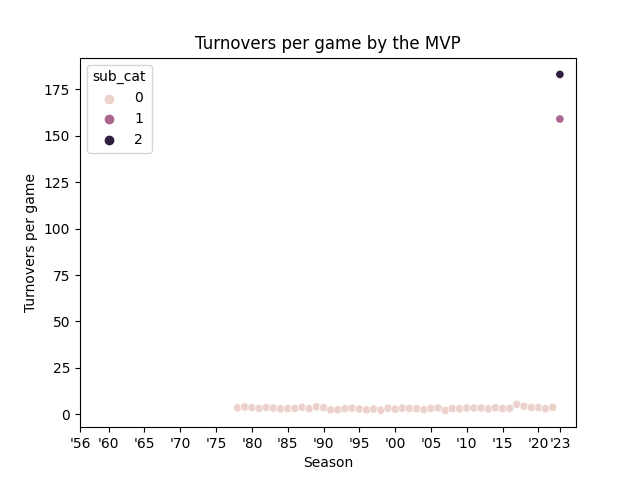
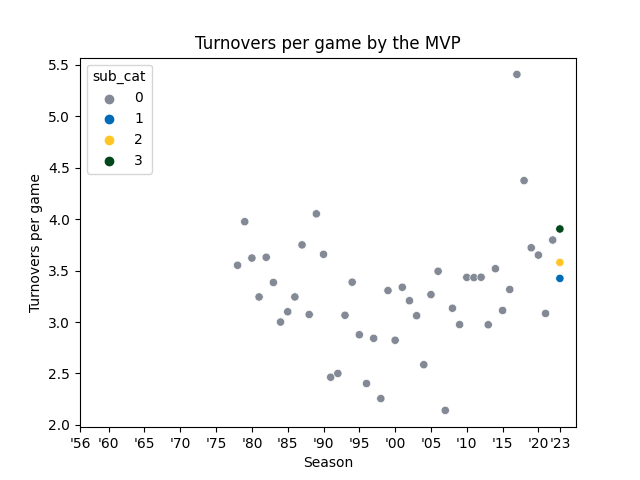
Final data version

diff --git a/graph.py b/graph.py
@@ -2,6 +2,15 @@ import pandas as pd
 import seaborn as sns
 import matplotlib.pyplot as plt
 
+palette=[
+    '#838a96',
+    #Embiid
+    '#006BB6',
+    #Joker
+    '#FEC524',
+    #Gianni
+    '#00471B',
+]
 
 def gen_labels(seasons):
     seasons = ["'"+x.split("-")[1] for x in seasons]
@@ -52,7 +61,7 @@ def gen_by_year_dataset(data, tag):
     r_df = pd.DataFrame(dtm, columns=['idx', 'season', tag])
     return r_df
 
-tag_to_label = {"PTS": "Points", "REB" : "Rebounds", "AST" : "Assits", "STL" : "Steals", "BLK" : "Blocks", "FG_PCT": "Field Goal Percentage", "FG3_PCT" : "3 Point Percentage", "TS%" : "True Shooting Percentage", 'OWS' : 'OWS', 'TOV' : 'Turnovers', 'PF':'Personal Fouls', 'PER':'PER','OWS':'OWS',
+tag_to_label = {"PTS": "Points", "REB" : "Rebounds", "AST" : "Assists", "STL" : "Steals", "BLK" : "Blocks", "FG_PCT": "Field Goal Percentage", "FG3_PCT" : "3 Point Percentage", "TS%" : "True Shooting Percentage", 'OWS' : 'OWS', 'TOV' : 'Turnovers', 'PF':'Personal Fouls', 'PER':'PER','OWS':'OWS',
                 'DWS':'DWS','WS':'WS','OBPM':'OBPM','DBPM':'DBPM','BPM':'BPM','VORP':'VORP'}
 
 def beep(tag):
@@ -61,10 +70,15 @@ def beep(tag):
         return ret_map[tag]
     return tag
 
-def add_player_to_scat(scat, name, tag, sub_cat):
+def add_player_to_scat(scat, name, tag, sub_cat, per_game):
     player = pd.read_csv('data/this_year/{}.csv'.format(name))
     player_tag = beep(tag)
-    new_row = {'idx':67, 'season':'2022-23', tag:float(player[player_tag]), 'sub_cat':sub_cat}
+
+    if(per_game):
+        new_row = {'idx':67, 'season':'2022-23', tag:float(player[player_tag]/player['G']), 'sub_cat':sub_cat}
+    else:
+        new_row = {'idx':67, 'season':'2022-23', tag:float(player[player_tag]), 'sub_cat':sub_cat}
+
     scat = scat.append(new_row, ignore_index=True)
     return scat
 
@@ -79,10 +93,11 @@ def gen_scatter_plot_by_year(tag, per_game):
 
 
     SCAT['sub_cat'] = 0
-    SCAT = add_player_to_scat(SCAT, 'tatum', tag, 1)
-    SCAT = add_player_to_scat(SCAT, 'luka', tag, 2)
+    SCAT = add_player_to_scat(SCAT, 'embiid', tag, 1, per_game)
+    SCAT = add_player_to_scat(SCAT, 'jokic', tag, 2, per_game)
+    SCAT = add_player_to_scat(SCAT, 'giannis', tag, 3, per_game)
 
-    sp = sns.scatterplot(data=SCAT, x='idx', y=tag, hue='sub_cat')
+    sp = sns.scatterplot(data=SCAT, x='idx', y=tag, hue='sub_cat', palette=palette)
     if(per_game):
         sp.set_title("{} per game by the MVP".format(tag_to_label[tag]))
     else:
@@ -112,16 +127,19 @@ def gen_scatter_plot_by_cat(cats, per_game, label):
         r_df = pd.concat([r_df, r], axis=0)
         i += 1
 
-    tatum = pd.read_csv('data/this_year/tatum.csv')
-    luka = pd.read_csv('data/this_year/luka.csv')
+    embiid = pd.read_csv('data/this_year/embiid.csv')
+    jokic = pd.read_csv('data/this_year/jokic.csv')
+    giannis = pd.read_csv('data/this_year/giannis.csv')
 
-    r_df = add_player_info_to_cat(r_df, tatum, cats, per_game)
-    r_df = add_player_info_to_cat(r_df, luka, cats, per_game)
+    r_df = add_player_info_to_cat(r_df, embiid, cats, per_game)
+    r_df = add_player_info_to_cat(r_df, jokic, cats, per_game)
+    r_df = add_player_info_to_cat(r_df, giannis, cats, per_game)
 
-    sp = sns.scatterplot(data=r_df, x='idx', y='data', hue='player_id', marker='_', s=200)
+    sp = sns.scatterplot(data=r_df, x='idx', y='data', hue='player_id', palette=palette, marker='_', s=200)
     sp.set_xticks(list(range(len(cats))))
     sp.set_xticklabels([tag_to_label[c] for c in cats])
-    plt.tight_layout()
+    sp.set_xlabel("")
+    sp.set_ylabel("")
     plt.savefig('data/graphs/by_cat/{}.png'.format(label))
     plt.clf()
 
@@ -147,5 +165,16 @@ BASIC_DEFENSIVE_COUNTING_STATS = (['BLK', 'STL'], 'Defensive Counting Stats')
 BASIC_BAD_STATS = (['TOV', 'PF'], 'Negative Counting Stats')
 ADVANCED_STATS = (['OWS','DWS','WS','OBPM','DBPM','BPM','VORP', 'PER'], 'Advanced Stats')
 
+for stat in BASIC_OFFENSIVE_COUNTING_STATS[0]:
+    gen_scatter_plot_by_year(stat, True)
 
+for stat in BASIC_DEFENSIVE_COUNTING_STATS[0]:
+    gen_scatter_plot_by_year(stat, True)
+
+for stat in BASIC_BAD_STATS[0]:
+    gen_scatter_plot_by_year(stat, True)
+
+
+gen_scatter_plot_by_cat(BASIC_DEFENSIVE_COUNTING_STATS[0], True, BASIC_DEFENSIVE_COUNTING_STATS[1])
+gen_scatter_plot_by_cat(BASIC_BAD_STATS[0], True, BASIC_BAD_STATS[1])
 gen_scatter_plot_by_cat(ADVANCED_STATS[0], False, ADVANCED_STATS[1])
